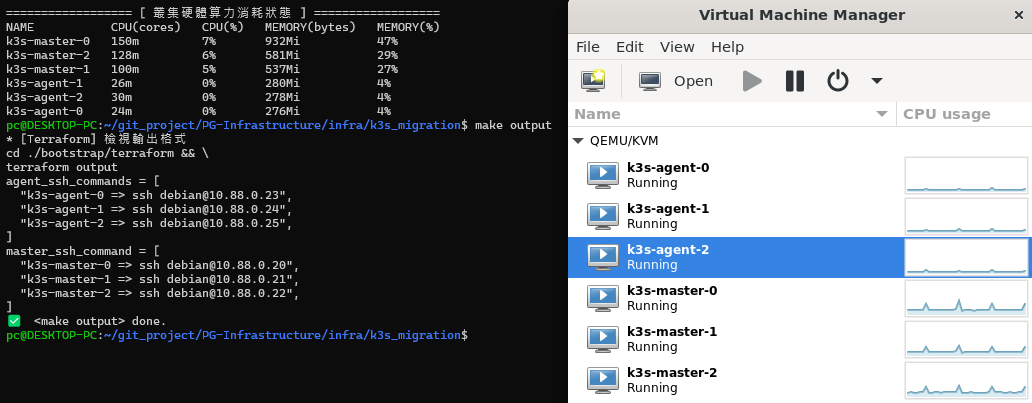
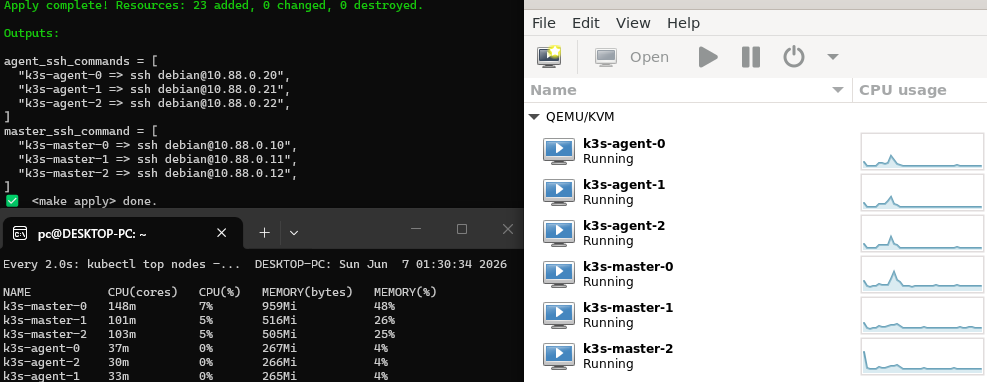
update somethings

diff --git a/infra/k3s_migration/infra-live/README.md b/infra/k3s_migration/infra-live/README.md
@@ -304,17 +304,17 @@ cd infra/docker-compose
     make elk action=up
 
 
-# ✅ 啟動 K3s Cluster
+# ⭐ 啟動 K3s Cluster
     1. 初始化/更新 標籤設定 ( 親合/反親合 )
     make label-nodes
     
     2. 手動初始化 bootstrap
     make init-gitops
     
-    ⭐ 3. 初始化/更新 Chart 依賴包
+    3. 初始化/更新 Chart 依賴包
     make helm-chart-build
     
-    ⭐ 4. 初始化/更新 ArgoCD 入口 ( root-app: appproject + appset )
+    4. 初始化/更新 ArgoCD 入口 ( root-app: appproject + appset )
     # 切換環境: 透過 appset/*/app.ymal 調整環境 (註解)
     make root-app ENV=homelab-test
 
@@ -527,7 +527,7 @@ cd infra/docker-compose
 <ul>
 
 ```
-Layer 1 — Infra Provisioning ( Terraform)
+Layer 1 — Infra Provisioning ( Terraform )
 
 Layer 2 — Node Bootstrap ( Ansible )
 
@@ -547,35 +547,7 @@ Layer 2 — Node Bootstrap ( Ansible )
 
 
 <details>
-<summary><b><i>　IV.　DevOps Flow 實施步驟 </i></b></summary>
-<ul>
-
-```
-Git Push
-  ↓
-GitLab CI
-  ↓
-Build Image
-  ↓
-Push Registry
-  ↓
-Update values.yaml
-  ↓
-ArgoCD Detect Drift
-  ↓
-Sync
-  ↓
-K3s Apply
-  ↓
-Pod Service Running
-```
-
-</ul>
-</details>
-
-
-<details>
-<summary><b><i>　V.　重新校正 ingress-nginx 位置 </i></b></summary>
+<summary><b><i>　IV.　重新校正 ingress-nginx 位置 </i></b></summary>
 <ul>
 
 ```
@@ -721,7 +693,7 @@ kubectl get deploy ingress-nginx-controller \
 
 
 <details>
-<summary><b><i>　VI.　建立 Applications </i></b></summary>
+<summary><b><i>　V.　建立 Applications </i></b></summary>
 <ul>
 
 ```
@@ -881,7 +853,7 @@ tempo-homelab-test              tempo                                   nginx   
 
 
 <details open>
-<summary><b><i>　VII.　管理 K8s GitOps 優先級問題 </i></b></summary>
+<summary><b><i>　VI.　管理 K8s GitOps 優先級問題 </i></b></summary>
 <ul>
 
 ```
@@ -983,54 +955,104 @@ $ make k-top
 
 ================== [ 叢集硬體算力消耗狀態 ] ==================
 NAME           CPU(cores)   CPU(%)   MEMORY(bytes)   MEMORY(%)
-k3s-master-0   162m         8%       1153Mi          58%
-k3s-master-1   114m         5%       1067Mi          54%
-k3s-master-2   147m         7%       1039Mi          52%
-k3s-agent-2    51m          1%       476Mi           8%
-k3s-agent-0    46m          1%       474Mi           8%
-k3s-agent-1    45m          1%       461Mi           7%
+k3s-agent-0    134m         3%       1266Mi          21%
+k3s-agent-1    117m         2%       1157Mi          19%
+k3s-agent-2    210m         5%       1732Mi          29%
+k3s-master-0   266m         13%      1554Mi          79%
+k3s-master-1   233m         11%      1548Mi          78%
+k3s-master-2   244m         12%      1431Mi          72%
 
 ------
 
 $ kubectl get pod -A -o wide | grep "master"
-argocd           argocd-notifications-controller-74fc7549b4-zwcwr    1/1     Running   0          5m4s    10.42.2.2   k3s-master-1   <none>           <none>
-kube-system      coredns-8db54c48d-9lh7h                             1/1     Running   0          108m    10.42.0.2   k3s-master-0   <none>           <none>
-kube-system      local-path-provisioner-5d9d9885bc-4q8rz             1/1     Running   0          108m    10.42.0.4   k3s-master-0   <none>           <none>
-kube-system      metrics-server-786d997795-69vpd                     1/1     Running   0          108m    10.42.0.3   k3s-master-0   <none>           <none>
+argocd                          argocd-applicationset-controller-695bcdb688-62tbm                 1/1     Running   0             34m     10.42.1.2    k3s-master-1   <none>           <none>
+kube-system                     coredns-8db54c48d-brt4d                                           1/1     Running   0             40m     10.42.0.3    k3s-master-0   <none>           <none>
+kube-system                     local-path-provisioner-5d9d9885bc-66whf                           1/1     Running   0             40m     10.42.0.4    k3s-master-0   <none>           <none>
+kube-system                     metrics-server-786d997795-bc5qh                                   1/1     Running   0             40m     10.42.0.2    k3s-master-0   <none>           <none>
+kube-system                     svclb-portainer-agent-6ba52cc8-689ln                              1/1     Running   0             3m39s   10.42.3.8    k3s-master-2   <none>           <none>
+kube-system                     svclb-portainer-agent-6ba52cc8-8bh4n                              1/1     Running   0             3m39s   10.42.1.7    k3s-master-1   <none>           <none>
+kube-system                     svclb-portainer-agent-6ba52cc8-d6jj6                              1/1     Running   0             3m39s   10.42.0.8    k3s-master-0   <none>           <none>
+loki-homelab-test               loki-canary-8676d                                                 1/1     Running   0             23m     10.42.1.5    k3s-master-1   <none>           <none>
+loki-homelab-test               loki-canary-rt5t9                                                 1/1     Running   0             23m     10.42.0.6    k3s-master-0   <none>           <none>
+loki-homelab-test               loki-canary-zn2rz                                                 1/1     Running   0             22m     10.42.3.5    k3s-master-2   <none>           <none>
+loki-homelab-test               loki-gateway-6d5fc56d7-bxvq5                                      1/1     Running   0             22m     10.42.3.6    k3s-master-2   <none>           <none>
+loki-homelab-test               loki-homelab-test-logs-6qjxq                                      2/2     Running   0             22m     10.42.1.6    k3s-master-1   <none>           <none>
+loki-homelab-test               loki-homelab-test-logs-h2wqt                                      2/2     Running   0             22m     10.42.3.7    k3s-master-2   <none>           <none>
+loki-homelab-test               loki-homelab-test-logs-wmgc2                                      2/2     Running   0             22m     10.42.0.7    k3s-master-0   <none>           <none>
+prometheus-stack-homelab-test   prometheus-stack-homelab-test-prometheus-node-exporter-8rlnm      1/1     Running   0             33m     10.88.0.10   k3s-master-0   <none>           <none>
+prometheus-stack-homelab-test   prometheus-stack-homelab-test-prometheus-node-exporter-bf5s7      1/1     Running   0             33m     10.88.0.11   k3s-master-1   <none>           <none>
+prometheus-stack-homelab-test   prometheus-stack-homelab-test-prometheus-node-exporter-tlnwk      1/1     Running   1 (22m ago)   33m     10.88.0.12   k3s-master-2   <none>           <none>
+promtail-homelab-test           promtail-homelab-test-5grsh                                       1/1     Running   0             32m     10.42.1.4    k3s-master-1   <none>           <none>
+promtail-homelab-test           promtail-homelab-test-bqt59                                       1/1     Running   0             32m     10.42.0.5    k3s-master-0   <none>           <none>
+promtail-homelab-test           promtail-homelab-test-wqt5l                                       1/1     Running   0             32m     10.42.3.4    k3s-master-2   <none>           <none>
+tempo-homelab-test              tempo-homelab-test-querier-84bbb4689d-dmz2x                       1/1     Running   0             33m     10.42.1.3    k3s-master-1   <none>           <none>       <none>
 
 $ kubectl get pod -A -o wide | grep "agent"
-argocd           argocd-application-controller-0                     1/1     Running   0          5m14s   10.42.4.4   k3s-agent-2    <none>           <none>
-argocd           argocd-applicationset-controller-695bcdb688-xtr62   1/1     Running   0          5m15s   10.42.4.3   k3s-agent-2    <none>           <none>
-argocd           argocd-redis-788b7d567b-tjq9m                       1/1     Running   0          5m15s   10.42.3.5   k3s-agent-0    <none>           <none>
-argocd           argocd-repo-server-775957db78-zslwm                 1/1     Running   0          5m15s   10.42.5.3   k3s-agent-1    <none>           <none>
-argocd           argocd-server-86b8cb666-hz9z6                       1/1     Running   0          5m15s   10.42.3.6   k3s-agent-0    <none>           <none>
-cert-manager     cert-manager-7857c97778-jzbml                       1/1     Running   0          2m52s   10.42.5.4   k3s-agent-1    <none>           <none>
-cert-manager     cert-manager-cainjector-567c6b47ff-b6lln            1/1     Running   0          6m11s   10.42.4.2   k3s-agent-2    <none>           <none>
-cert-manager     cert-manager-webhook-7cc5c588cb-v7c2d               1/1     Running   0          6m11s   10.42.5.2   k3s-agent-1    <none>           <none>
-sealed-secrets   sealed-secrets-controller-674596f4bf-xbrdz          1/1     Running   0          2m49s   10.42.5.5   k3s-agent-1    <none>           <none>
+argocd                          argocd-application-controller-0                                   1/1     Running   0             22m     10.42.6.13   k3s-agent-0    <none>           <none>
+argocd                          argocd-notifications-controller-74fc7549b4-jvgpg                  1/1     Running   0             34m     10.42.6.4    k3s-agent-0    <none>           <none>
+argocd                          argocd-redis-788b7d567b-7knnp                                     1/1     Running   0             34m     10.42.5.3    k3s-agent-2    <none>           <none>
+argocd                          argocd-repo-server-775957db78-x7b2z                               1/1     Running   0             34m     10.42.4.5    k3s-agent-1    <none>           <none>
+argocd                          argocd-server-86b8cb666-nncfg                                     1/1     Running   0             34m     10.42.6.5    k3s-agent-0    <none>           <none>
+cert-manager                    cert-manager-7857c97778-rfhb4                                     1/1     Running   0             35m     10.42.4.3    k3s-agent-1    <none>           <none>
+cert-manager                    cert-manager-cainjector-567c6b47ff-h9tzf                          1/1     Running   0             35m     10.42.5.2    k3s-agent-2    <none>           <none>
+cert-manager                    cert-manager-webhook-7cc5c588cb-8plmw                             1/1     Running   0             35m     10.42.4.2    k3s-agent-1    <none>           <none>
+grafana-homelab-test            grafana-homelab-test-76bdf55cfc-djdbg                             1/1     Running   1 (29m ago)   30m     10.42.4.10   k3s-agent-1    <none>           <none>
+ingress-nginx-homelab-test      ingress-nginx-homelab-test-controller-7c4588f8fc-qvm2j            1/1     Running   0             22m     10.88.0.20   k3s-agent-0    <none>           <none>
+kube-system                     svclb-portainer-agent-6ba52cc8-689ln                              1/1     Running   0             3m56s   10.42.3.8    k3s-master-2   <none>           <none>
+kube-system                     svclb-portainer-agent-6ba52cc8-8bh4n                              1/1     Running   0             3m56s   10.42.1.7    k3s-master-1   <none>           <none>
+kube-system                     svclb-portainer-agent-6ba52cc8-d6jj6                              1/1     Running   0             3m56s   10.42.0.8    k3s-master-0   <none>           <none>
+kube-system                     svclb-portainer-agent-6ba52cc8-llwsk                              1/1     Running   0             3m56s   10.42.4.16   k3s-agent-1    <none>           <none>
+kube-system                     svclb-portainer-agent-6ba52cc8-qbcrg                              1/1     Running   0             3m56s   10.42.6.17   k3s-agent-0    <none>           <none>
+kube-system                     svclb-portainer-agent-6ba52cc8-rm9ph                              1/1     Running   0             3m56s   10.42.5.16   k3s-agent-2    <none>           <none>
+loki-homelab-test               loki-canary-9vjp9                                                 1/1     Running   0             23m     10.42.6.12   k3s-agent-0    <none>           <none>
+loki-homelab-test               loki-canary-fbdkh                                                 1/1     Running   0             23m     10.42.4.11   k3s-agent-1    <none>           <none>
+loki-homelab-test               loki-canary-xnc5s                                                 1/1     Running   0             23m     10.42.5.12   k3s-agent-2    <none>           <none>
+loki-homelab-test               loki-homelab-test-0                                               1/1     Running   0             22m     10.42.5.14   k3s-agent-2    <none>           <none>
+loki-homelab-test               loki-homelab-test-grafana-agent-operator-599f47b676-ccw9m         1/1     Running   0             23m     10.42.4.12   k3s-agent-1    <none>           <none>
+loki-homelab-test               loki-homelab-test-logs-8l7vd                                      2/2     Running   0             22m     10.42.5.15   k3s-agent-2    <none>           <none>
+loki-homelab-test               loki-homelab-test-logs-k985l                                      2/2     Running   0             22m     10.42.4.13   k3s-agent-1    <none>           <none>
+loki-homelab-test               loki-homelab-test-logs-tnt29                                      2/2     Running   0             22m     10.42.6.14   k3s-agent-0    <none>           <none>
+portainer                       portainer-agent-95fb8c48b-h5d27                                   1/1     Running   0             3m56s   10.42.4.17   k3s-agent-1    <none>           <none>
+postgresql-homelab-test         postgresql-homelab-test-0                                         1/1     Running   0             33m     10.42.5.6    k3s-agent-2    <none>           <none>
+prometheus-stack-homelab-test   alertmanager-prometheus-stack-homelab-t-alertmanager-0            2/2     Running   0             32m     10.42.5.9    k3s-agent-2    <none>           <none>
+prometheus-stack-homelab-test   prometheus-prometheus-stack-homelab-t-prometheus-0                2/2     Running   0             32m     10.42.5.10   k3s-agent-2    <none>           <none>
+prometheus-stack-homelab-test   prometheus-stack-homelab-t-operator-6d64d57745-pqrz7              1/1     Running   0             33m     10.42.6.8    k3s-agent-0    <none>           <none>
+prometheus-stack-homelab-test   prometheus-stack-homelab-test-kube-state-metrics-6db996d4dz77dz   1/1     Running   0             33m     10.42.4.8    k3s-agent-1    <none>           <none>
+prometheus-stack-homelab-test   prometheus-stack-homelab-test-prometheus-node-exporter-5ntwn      1/1     Running   0             33m     10.88.0.20   k3s-agent-0    <none>           <none>
+prometheus-stack-homelab-test   prometheus-stack-homelab-test-prometheus-node-exporter-8hhmk      1/1     Running   0             33m     10.88.0.22   k3s-agent-2    <none>           <none>
+prometheus-stack-homelab-test   prometheus-stack-homelab-test-prometheus-node-exporter-q8x7z      1/1     Running   0             33m     10.88.0.21   k3s-agent-1    <none>           <none>
+promtail-homelab-test           promtail-homelab-test-cfr8l                                       1/1     Running   0             32m     10.42.5.11   k3s-agent-2    <none>           <none>
+promtail-homelab-test           promtail-homelab-test-ldh6c                                       1/1     Running   0             32m     10.42.4.9    k3s-agent-1    <none>           <none>
+promtail-homelab-test           promtail-homelab-test-rplhr                                       1/1     Running   0             32m     10.42.6.9    k3s-agent-0    <none>           <none>
+sealed-secrets                  sealed-secrets-controller-674596f4bf-r4zfj                        1/1     Running   0             35m     10.42.4.4    k3s-agent-1    <none>           <none>
+tempo-homelab-test              tempo-homelab-test-compactor-5cc476bcb9-xxwkn                     1/1     Running   0             33m     10.42.6.6    k3s-agent-0    <none>           <none>
+tempo-homelab-test              tempo-homelab-test-distributor-5f4998dcfc-hzsx9                   1/1     Running   0             24m     10.42.6.10   k3s-agent-0    <none>           <none>
+tempo-homelab-test              tempo-homelab-test-ingester-0                                     1/1     Running   0             33m     10.42.5.5    k3s-agent-2    <none>           <none>
+tempo-homelab-test              tempo-homelab-test-memcached-0                                    1/1     Running   0             33m     10.42.6.7    k3s-agent-0    <none>           <none>
+tempo-homelab-test              tempo-homelab-test-query-frontend-88759c5fc-4pkrr                 1/1     Running   0             33m     10.42.4.6    k3s-agent-1    <none>           <none>        <none>
 
 ------
 
 $ kubectl get appproject -A
 NAMESPACE   NAME            AGE
-argocd      databases       77m
-argocd      default         80m
-argocd      observability   77m
-argocd      pg-apps         77m
-argocd      platform        77m
-argocd      security        77m
-argocd      storage         77m
+argocd      databases       34m
+argocd      default         35m
+argocd      observability   34m
+argocd      pg-apps         34m
+argocd      platform        34m
+argocd      security        34m
+argocd      storage         34m
 
 
 $ kubectl get appset -A
 NAMESPACE   NAME                   AGE
-argocd      grafana-appset            77m
-argocd      ingress-nginx-appset      77m
-argocd      loki-appset               77m
-argocd      postgresql-appset         77m
-argocd      prometheus-stack-appset   77m
-argocd      promtail-appset           77m
-argocd      tempo-appset              77m
+argocd      grafana-appset            34m
+argocd      ingress-nginx-appset      34m
+argocd      loki-appset               34m
+argocd      postgresql-appset         34m
+argocd      prometheus-stack-appset   34m
+argocd      promtail-appset           34m
+argocd      tempo-appset              34m
 
 
 $ kubectl get app -A